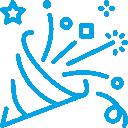
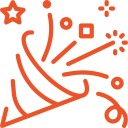
reverting done

diff --git a/src/components/Hero/hero.css b/src/components/Hero/hero.css
@@ -13,7 +13,7 @@
     font-weight: 900;
     text-transform: uppercase;
     letter-spacing: 10px;
-    color: #007dc3;
+    color: #EB3F0F;
     margin: 0;
 }
 .writeup-div > h4 {
@@ -37,7 +37,7 @@
 .call-to-action{
     padding: 1rem 2rem;
     background-color: transparent;
-    background-image: linear-gradient(170deg, #007dc3 15%, #FEC200 100%);
+    background-image: linear-gradient(170deg, #EB3F0F 15%, #FEC200 100%);
     border-radius: 4px;
     font-family: "Poppins", Sans-serif;
     font-size: 1.2rem;
@@ -63,7 +63,7 @@
         font-weight: 900;
         text-transform: uppercase;
         letter-spacing: 10px;
-        color: #007dc3;
+        color: #EB3F0F;
         margin: 0;
     }
     .writeup-div > h4 {
@@ -87,7 +87,7 @@
     .writeup-div > a{
         padding: 1rem 2rem;
         background-color: transparent;
-        background-image: linear-gradient(170deg, #007dc3 15%, #FEC200 100%);
+        background-image: linear-gradient(170deg, #EB3F0F 15%, #FEC200 100%);
         border-radius: 4px;
         font-family: "Poppins", Sans-serif;
         font-size: 1rem;

diff --git a/src/components/Join/join.css b/src/components/Join/join.css
@@ -8,7 +8,7 @@
 .join >h4{
     font-weight: 600;
     margin: 0 0 0.6rem;
-    color: #007dc3;
+    color: #EB3F0F;
     line-height: 5rem;
     font-family: 'Poppins', sans-serif;
     font-size: 1rem;
@@ -34,14 +34,14 @@
     align-items: center;
     justify-content: center;
     background-color: transparent;
-    background-image: linear-gradient(230deg, #6cbeef 0%, #FFFFFF 100%);
+    background-image: linear-gradient(230deg, #FCF1F9 0%, #FFFFFF 100%);
     box-shadow: 0px 0px 40px 0px rgb(0 0 0 / 13%);
     width:29%;
     padding:1rem;
     margin-top: 1rem;
 }
 .card:hover{
-    background-image: linear-gradient(135deg, #e0ffff 55%, #FEC200 100%);
+    background-image: linear-gradient(135deg, #28a745 55%, #FEC200 100%);
 }
 
 .card >p{
@@ -64,7 +64,7 @@
 .call-to-action{
     padding: 1rem 2rem;
     background-color: transparent;
-    background-image: linear-gradient(170deg, #007dc3 15%, #FEC200 100%);
+    background-image: linear-gradient(170deg, #EB3F0F 15%, #FEC200 100%);
     border-radius: 4px;
     font-family: "Poppins", Sans-serif;
     font-size: 1.2rem;

diff --git a/src/components/Speakers/speakers.css b/src/components/Speakers/speakers.css
@@ -4,12 +4,11 @@
     justify-content: center;
     align-items: center;
     padding: 5vh 10vh 5vh 10vh;
-    margin-bottom: 2rem;
 }
 .join >h4{
     font-weight: 600;
     margin: 0 0 0.6rem;
-    color: #007dc3;
+    color: #EB3F0F;
     line-height: 5rem;
     font-family: 'Poppins', sans-serif;
     font-size: 1rem;
@@ -87,7 +86,7 @@
     background-color: #0a0a0a;
 }
 .cardy:hover{
-    background-image: linear-gradient(135deg, #e0ffff 55%, #FEC200 100%);
+    background-image: linear-gradient(135deg, #28a745 55%, #FEC200 100%);
 }
 
 .card >p{
@@ -110,7 +109,7 @@
 .call-to-action{
     padding: 1rem 2rem;
     background-color: transparent;
-    background-image: linear-gradient(170deg, #007dc3  15%, #FEC200 100%);
+    background-image: linear-gradient(170deg, #EB3F0F 15%, #FEC200 100%);
     border-radius: 4px;
     font-family: "Poppins", Sans-serif;
     font-size: 1.2rem;

diff --git a/src/components/Ticket/ticket.css b/src/components/Ticket/ticket.css
@@ -14,7 +14,7 @@
 .ticket >h4, .ticket-card >h4{
     font-weight: 600;
     margin: 0 0 0.6rem;
-    color: #007dc3;
+    color: #EB3F0F;
     line-height: 5rem;
     font-family: 'Poppins', sans-serif;
     font-size: 1rem;
@@ -60,7 +60,7 @@
 .call-to-action-ticket{
     padding: 1rem;
     background-color: transparent;
-    background-image: linear-gradient(170deg, #007dc3 15%, #FEC200 100%);
+    background-image: linear-gradient(170deg, #EB3F0F 15%, #FEC200 100%);
     border-radius: 4px;
     font-family: "Poppins", Sans-serif;
     font-size: 1.2rem;
@@ -86,7 +86,7 @@
     .ticket >h4{
         font-weight: 600;
         margin: 0 0 0.6rem;
-        color: #007dc3;
+        color: #EB3F0F;
         line-height: 5rem;
         font-family: 'Poppins', sans-serif;
         font-size: 1rem;

diff --git a/src/components/Contact/contact.css b/src/components/Contact/contact.css
@@ -22,7 +22,7 @@
     margin-left: -55%;
     padding: 1rem 1.5rem;
     background-color: transparent;
-    background-image: linear-gradient(170deg, #007dc3 15%, #FEC200 100%);
+    background-image: linear-gradient(170deg, #EB3F0F 15%, #FEC200 100%);
 }
 .top-left > h2{
     font-size: 1.5rem;
@@ -54,7 +54,7 @@
     margin-bottom:2rem;
 }
 .bottom{
-    background-image: url("../../assets/subscribe_bg.png");
+    background-image: url("../../assets/subscribe_bg.jpeg");
     background-position: center;
     background-repeat: no-repeat;
     background-size: auto;
@@ -78,7 +78,7 @@
     border-radius: 4px 0 0 4px;
 }
 .input-button{
-    background: #007dc3;
+    background: #eb3f0f;
     font-size: 15px;
     height: 50px;
     width:60px;

diff --git a/src/components/Schedule/schedule.css b/src/components/Schedule/schedule.css
@@ -112,10 +112,9 @@
 .inner-card > div > h3 >hr{
         width: 25px;
         height: 3px;
-        background: #007dc3;
+        background: #fa0368;
         display: inline-block;
         margin-right: 1rem;
-        border:0;
         margin-bottom: 0.2rem;
 }
 .inner-card > div > p{
@@ -126,7 +125,7 @@
 }
 .tab-card-active{
     width: 25%;
-    background-image: linear-gradient(170deg, #007dc3 15%, #FEC200 100%);
+    background-image: linear-gradient(170deg, #EB3F0F 15%, #FEC200 100%);
     display: flex;
     flex-direction: column;
     justify-content: center;

diff --git a/src/components/About/about.css b/src/components/About/about.css
@@ -16,7 +16,7 @@
 .about-writeup-div > h4{
     font-weight: 600;
     margin: 0 0 10px;
-    color: #007dc3;
+    color: #EB3F0F;
     line-height: 28px;
     font-family: 'Poppins', sans-serif;
     font-size: 0.9rem;
@@ -38,7 +38,7 @@
 .about-writeup-div > a{
     padding: 1rem 2rem;
     background-color: transparent;
-    background-image: linear-gradient(170deg, #007dc3 15%, #FEC200 100%);
+    background-image: linear-gradient(170deg, #EB3F0F 15%, #FEC200 100%);
     border-radius: 4px;
     font-family: "Poppins", Sans-serif;
     font-size: 1.2rem;

diff --git a/src/components/Navbar/navbar.css b/src/components/Navbar/navbar.css
@@ -17,7 +17,7 @@
     align-items: center;
 }
 .normal-nav:hover{
-    color:#007dc3;
+    color:#eb3f0f;
 }
 .normal-nav{
     font-size: 0.9rem;
@@ -70,7 +70,7 @@
         top: 0;
         left:0;
         height:40vh;
-        background: linear-gradient(80deg, #0e7afe 40%, #1d2d5c 120%);
+        background: linear-gradient(80deg, #1a0b8c 40%, #fa50cb 120%);
         padding-top:5vh;
         justify-content: flex-start;
         align-items: flex-start;

diff --git a/src/components/Navbar/index.js b/src/components/Navbar/index.js
@@ -1,4 +1,4 @@
-import logo from '../../assets/logo.svg';
+import logo from '../../assets/logo.png';
 import hamburger from '../../assets/hamburger.png';
 import close from '../../assets/close.png';
 import { useState } from 'react';

diff --git a/src/App.css b/src/App.css
@@ -12,7 +12,7 @@
 .backup{
   width:60px;
   height: 60px;
-  background-color: #007dc3;
+  background-color: #eb3f0f;
   position: fixed;
   bottom: 0;
   right: 5%;

diff --git a/src/components/Footer/index.js b/src/components/Footer/index.js
@@ -1,4 +1,4 @@
-import logo from '../../assets/logo.svg';
+import logo from '../../assets/logo.png';
 import './footer.css';
 
 function Footer() {
